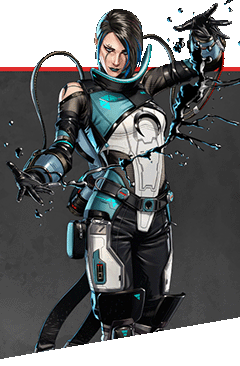
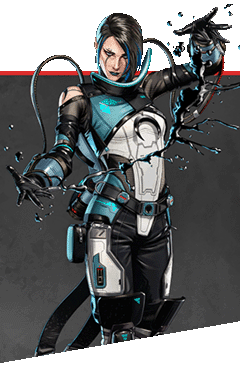
Readjusted sizes

diff --git a/index.html b/index.html
@@ -104,8 +104,8 @@
   }
 
   .size {
-    width: 22rem;
-    height: 22rem;
+    width: 22vw;
+    height: 22vw;
   }
 
   .header h1 {
